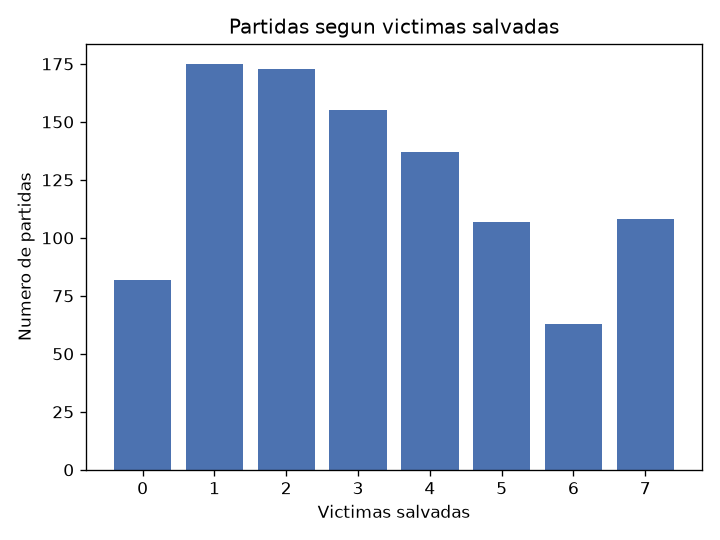
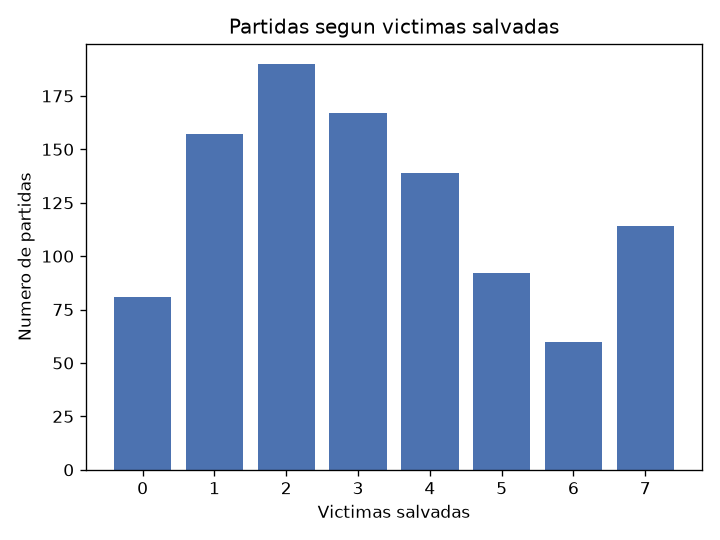
[DOCS]: Addition ot behavior in README.md based on runs

diff --git a/main.py b/main.py
@@ -128,6 +128,7 @@ ax.bar(turn_labels, turn_counts.values, color="#DD8452")
 ax.set_xlabel("Rango de turnos")
 ax.set_ylabel("Numero de partidas")
 ax.set_title("Partidas segun turnos hasta terminar")
+plt.xticks(rotation=45, ha="right")
 plt.tight_layout()
 plt.savefig("turnos_hasta_terminar.png", dpi=120)
 plt.show()

diff --git a/README.md b/README.md
@@ -36,11 +36,6 @@ HTTP (`server.py`).
 | `auxiliars.py` | Funciones compartidas: distancias, A*, Dijkstra, `triage_factor`, etc. (no es una clase). |
 | `Dice` / `Tile` | Utilidades de bajo nivel (coordenadas aleatorias, celda individual). |
 
-<br>
-<div align=center>
-<img width="800" height="auto" alt="ClassDiagram_Flashpoint-ClassDiagram_FinalCut drawio" src="https://github.com/user-attachments/assets/2854b2a0-fefe-49e8-af3c-484b3969728e" />
-</div>
-
 ---
 
 ## ¿Qué pasa en cada step?
@@ -194,9 +189,71 @@ Genera un único JSON `{"frames": [...]}` con un frame por turno, listo para
 reproducirse offline.
 
 ---
+ 
+## Resultados del algoritmo sobre 1000 partidas
+ 
+`main.py` corre un **batch de 1000 partidas independientes** (una por semilla,
+`seed=range(1000)`, estrategia `optimized`, tope de 500 turnos) vía `mesa.batch_run()`
+y produce tres gráficas de resumen. Estas son las estadísticas obtenidas en una corrida
+representativa de ese batch.
+ 
+### Tasa de victoria
+ 
+En promedio, la estrategia `optimized` **gana alrededor del 10% de las partidas**.
+Entre distintas corridas del mismo batch, la tasa observada varía: en los peores casos
+baja hasta **7%**, y en los mejores llega a **15%**. Esta variabilidad es esperable —
+cada partida depende de dónde caen las tiradas de fuego y de qué tan rápido escala el
+daño estructural antes de que el Coordinator pueda reaccionar.
+ 
+### Causa del resultado final
+ 
 
+ 
+La inmensa mayoría de las derrotas (~88% del total) ocurre por **colapso estructural**
+(≥24 puntos de daño), no por pérdida de víctimas — el conteo de partidas perdidas por
+víctimas es prácticamente nulo. Esto sugiere que el cuello de botella actual del
+algoritmo no es la logística de rescate en sí (el Coordinator sí llega a las víctimas a
+tiempo), sino la contención del fuego: las explosiones acumulan daño estructural más
+rápido de lo que el equipo puede apagar fuego general, incluso con el bono de triage.
+ 
+### Duración de las partidas
+ 
+ 
+La mayoría de las partidas termina entre los turnos **50 y 119**, con un pico
+claro en el rango **70-79**. Muy pocas partidas se extienden más allá de 150 turnos o
+terminan antes del turno 30 — es decir, el resultado (ganar o perder) tiende a
+definirse en una ventana relativamente consistente de la partida, ni demasiado
+temprano ni cerca del límite de 500 turnos.
+ 
+### Víctimas salvadas por partida
+ 
+ 
+La distribución de víctimas salvadas (de 0 a 7, el umbral de victoria) está
+concentrada en la zona media: **2 y 3 víctimas salvadas son los resultados más
+comunes**, seguidos de cerca por 1 y 4. Llegar a las 7 necesarias para ganar ocurre en
+una porción visible pero minoritaria de las partidas, coherente con la tasa de
+victoria de ~10% reportada arriba — el equipo suele avanzar bien en rescates parciales,
+pero rara vez sostiene ese ritmo el tiempo suficiente sin que el edificio colapse antes.
+ 
+### Lectura general
+ 
+En conjunto, las tres gráficas apuntan a la misma conclusión: el algoritmo de
+coordinación es efectivo salvando víctimas de forma parcial y consistente, pero el
+daño estructural acumulado por explosiones es, hoy, la principal causa de derrota muy
+por encima de la pérdida directa de víctimas. Cualquier mejora futura al Coordinator
+enfocada en frenar el daño estructural (p. ej. afinar `scan_chain_breaks`,
+`scan_general_fire` o el peso del `triage_factor`) es la palanca con más margen para
+subir la tasa de victoria por encima del ~10-15% actual.
+ 
+---
+ 
 ## Diagrama de clases
-
+ 
 El diagrama de clases completo (relaciones, atributos y métodos de cada clase) se
 encuentra en `ClassDiagram_Flashpoint-ClassDiagram_FinalCut_drawio.png`, incluido en
 el repositorio.
+
+<br>
+<div align=center>
+<img width="800" height="auto" alt="ClassDiagram_Flashpoint-ClassDiagram_FinalCut drawio" src="https://github.com/user-attachments/assets/2854b2a0-fefe-49e8-af3c-484b3969728e" />
+</div>
